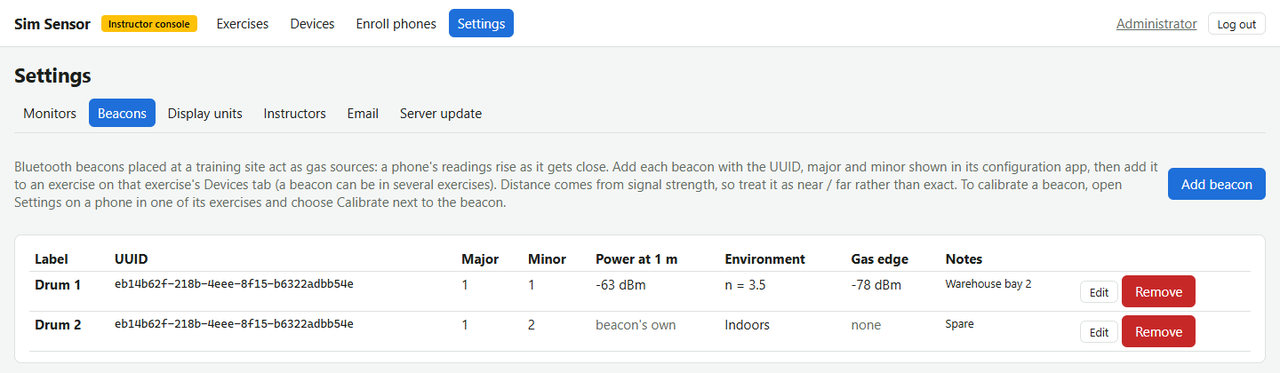
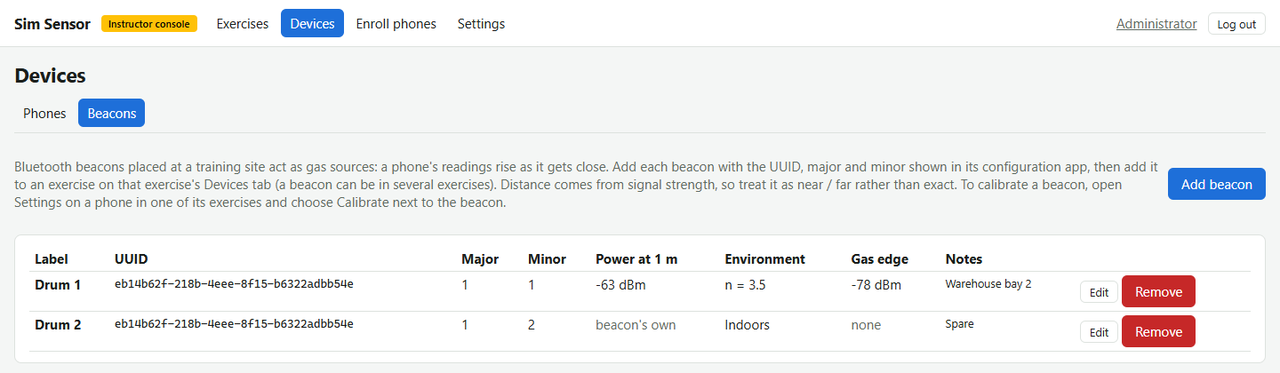
Console: manage beacons under Devices (v0.26.2)

diff --git a/console/src/pages/settings/SettingsPage.tsx b/console/src/pages/settings/SettingsPage.tsx
@@ -2,12 +2,11 @@ import { Navigate, NavLink, Route, Routes } from "react-router";
 import { useAuth } from "../../auth/AuthContext";
 import { InstructorsPage } from "../InstructorsPage";
 import { SystemSettingsPage } from "../SystemSettingsPage";
-import { BeaconsPage } from "./BeaconsPage";
 import { EmailSettingsPage } from "./EmailSettingsPage";
 import { MonitorsPage } from "./MonitorsPage";
 import { ServerUpdatePage } from "./ServerUpdatePage";
 
-/** Settings: display units, monitors (everyone reads, admins change) and, for admins, instructors. */
+/** Settings: monitors and display units (everyone reads, admins change) and, for admins, instructors, email and server update. */
 export function SettingsPage() {
   const { isAdmin } = useAuth();
   return (
@@ -15,7 +14,6 @@ export function SettingsPage() {
       <h1>Settings</h1>
       <nav className="tabs">
         <NavLink to="/settings/monitors">Monitors</NavLink>
-        <NavLink to="/settings/beacons">Beacons</NavLink>
         <NavLink to="/settings/units">Display units</NavLink>
         {isAdmin && <NavLink to="/settings/instructors">Instructors</NavLink>}
         {isAdmin && <NavLink to="/settings/email">Email</NavLink>}
@@ -24,7 +22,8 @@ export function SettingsPage() {
       <Routes>
         <Route index element={<Navigate to="monitors" replace />} />
         <Route path="monitors" element={<MonitorsPage />} />
-        <Route path="beacons" element={<BeaconsPage />} />
+        {/* Beacons moved to Devices (2026-10-17); keep old links working. */}
+        <Route path="beacons" element={<Navigate to="/devices/beacons" replace />} />
         <Route path="units" element={<SystemSettingsPage />} />
         {isAdmin && <Route path="instructors" element={<InstructorsPage />} />}
         {isAdmin && <Route path="email" element={<EmailSettingsPage />} />}

diff --git a/console/src/pages/DevicesPage.tsx b/console/src/pages/DevicesPage.tsx
@@ -1,13 +1,37 @@
 import { useState } from "react";
-import { Link } from "react-router";
+import { Link, Navigate, NavLink, Route, Routes } from "react-router";
+import { BeaconsPage } from "./devices/BeaconsPage";
 import { errorMessage } from "../api/client";
 import { Api, type Device } from "../api/endpoints";
 import { useResource } from "../api/useResource";
 import { useAuth } from "../auth/AuthContext";
 import { AsyncButton, Card, ErrorBox, Loading, relativeTime } from "../components/ui";
 
-/** The phone fleet: rename, group, assign to an exercise, revoke. */
+/**
+ * Devices: the phone fleet and the beacon inventory (operator 2026-10-17: beacons are managed
+ * here, not under Settings).
+ */
 export function DevicesPage() {
+  return (
+    <div className="stack">
+      <h1>Devices</h1>
+      <nav className="tabs">
+        <NavLink to="/devices" end>
+          Phones
+        </NavLink>
+        <NavLink to="/devices/beacons">Beacons</NavLink>
+      </nav>
+      <Routes>
+        <Route index element={<PhonesPage />} />
+        <Route path="beacons" element={<BeaconsPage />} />
+        <Route path="*" element={<Navigate to="/devices" replace />} />
+      </Routes>
+    </div>
+  );
+}
+
+/** The phone fleet: rename, group, assign to an exercise, revoke. */
+function PhonesPage() {
   const { isAdmin } = useAuth();
   const devices = useResource(Api.devices, []);
   const groups = useResource(Api.groups, []);
@@ -28,7 +52,6 @@ export function DevicesPage() {
 
   return (
     <div className="stack">
-      <h1>Devices</h1>
       <Card
         title="Phones"
         actions={

diff --git a/console/src/main.tsx b/console/src/main.tsx
@@ -27,7 +27,7 @@ function AppRoutes() {
           <Route index element={<Navigate to="/exercises" replace />} />
           <Route path="exercises" element={<ExercisesPage />} />
           <Route path="exercises/:id/*" element={<ExercisePage />} />
-          <Route path="devices" element={<DevicesPage />} />
+          <Route path="devices/*" element={<DevicesPage />} />
           <Route path="enroll" element={<EnrollPage />} />
           <Route path="settings/*" element={<SettingsPage />} />
           <Route path="profiles" element={<Navigate to="/settings/monitors" replace />} />

diff --git a/console/src/pages/exercises/CreateExerciseModal.tsx b/console/src/pages/exercises/CreateExerciseModal.tsx
@@ -150,7 +150,7 @@ export function CreateExerciseModal({ onClose }: { onClose: () => void }) {
           <section className="stack">
             <h3>3 · Beacons</h3>
             {beacons.data!.length === 0 ? (
-              <p className="muted small">No beacons yet (Settings → Beacons). You can add them later.</p>
+              <p className="muted small">No beacons yet (Devices → Beacons). You can add them later.</p>
             ) : (
               <>
                 <ul className="pick-list">

diff --git a/console/src/pages/exercise/DevicesTab.tsx b/console/src/pages/exercise/DevicesTab.tsx
@@ -177,7 +177,7 @@ function BeaconsCard({ exerciseId, onChanged }: { exerciseId: string; onChanged:
       </ul>
       {inventory.data.length === 0 ? (
         <p className="muted small">
-          No beacons yet: add them in <Link to="/settings/beacons">Settings → Beacons</Link>.
+          No beacons yet: add them in <Link to="/devices/beacons">Devices → Beacons</Link>.
         </p>
       ) : available.length > 0 ? (
         <div className="row">

diff --git a/README.md b/README.md
@@ -56,7 +56,7 @@ change as they move.
 ## How a training session works
 
 1. **Set up once:** the monitors your agency uses (Settings → Monitors) and any beacons
-   (Settings → Beacons).
+   (Devices → Beacons).
 2. **Create the exercise:** name, location, phones and beacons in one dialog.
 3. **Place the leaks** on the exercise's map: click a leak type, then the map.
 4. **Start** the exercise. Phones in it switch from the waiting screen to the meter, and the leaks
@@ -110,7 +110,8 @@ response time and screen style. Phones receive changes within about a second.
 
 ### Beacons
 
-The agency's beacons with their identity and calibration. Calibration, including the gas edge, is
+**Devices → Beacons**, next to the phones: the agency's beacons with their identity and
+calibration. Calibration, including the gas edge, is
 done on a phone at the site; see [docs/BEACON_SETUP.md](docs/BEACON_SETUP.md).
 
 ![Beacon inventory](docs/screenshots/console-beacons.png)

diff --git a/docs/RELEASE_NOTES.md b/docs/RELEASE_NOTES.md
@@ -2,6 +2,12 @@
 
 Newest first. One section per release (see `CLAUDE.md` §9).
 
+## v0.26.2 — 2026-10-17
+
+- Console: **beacons are managed under Devices** now, next to the phones (**Devices → Beacons**),
+  instead of Settings. Old links to Settings → Beacons open the new page.
+- Phones are unchanged.
+
 ## v0.26.1 — 2026-10-17
 
 - Console, Live map: a phone's label shows the highest alarm per gas, like the meter (for
